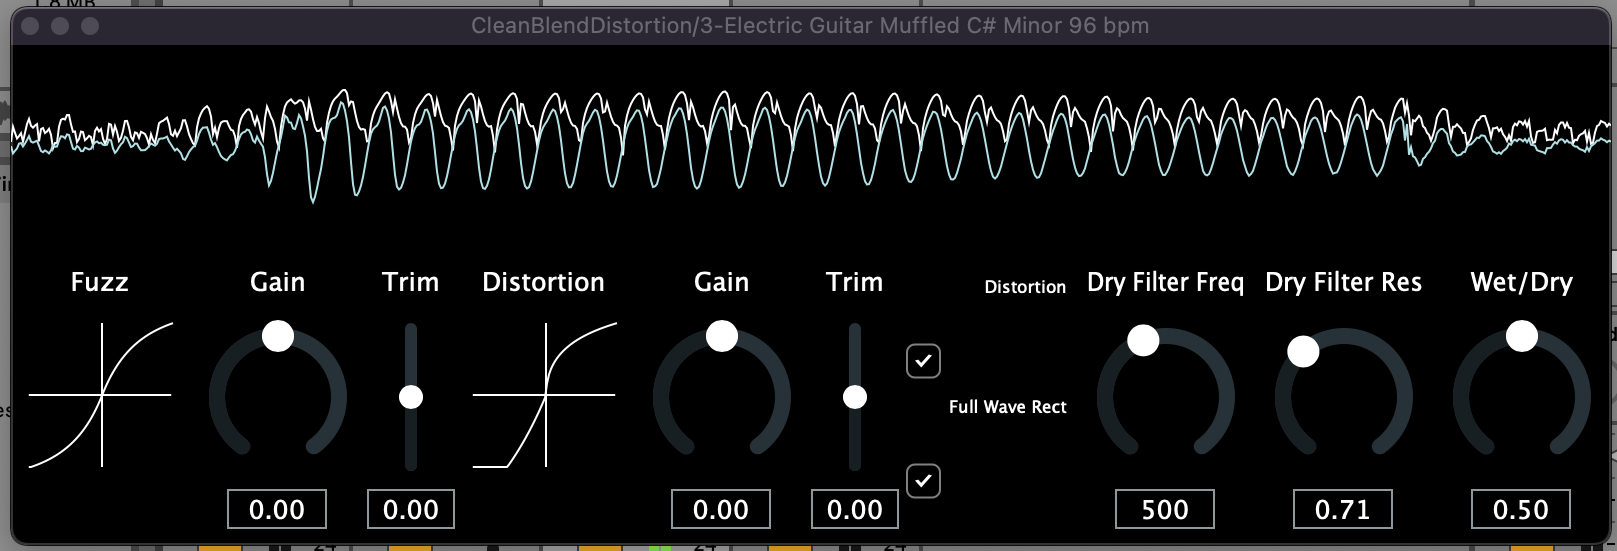
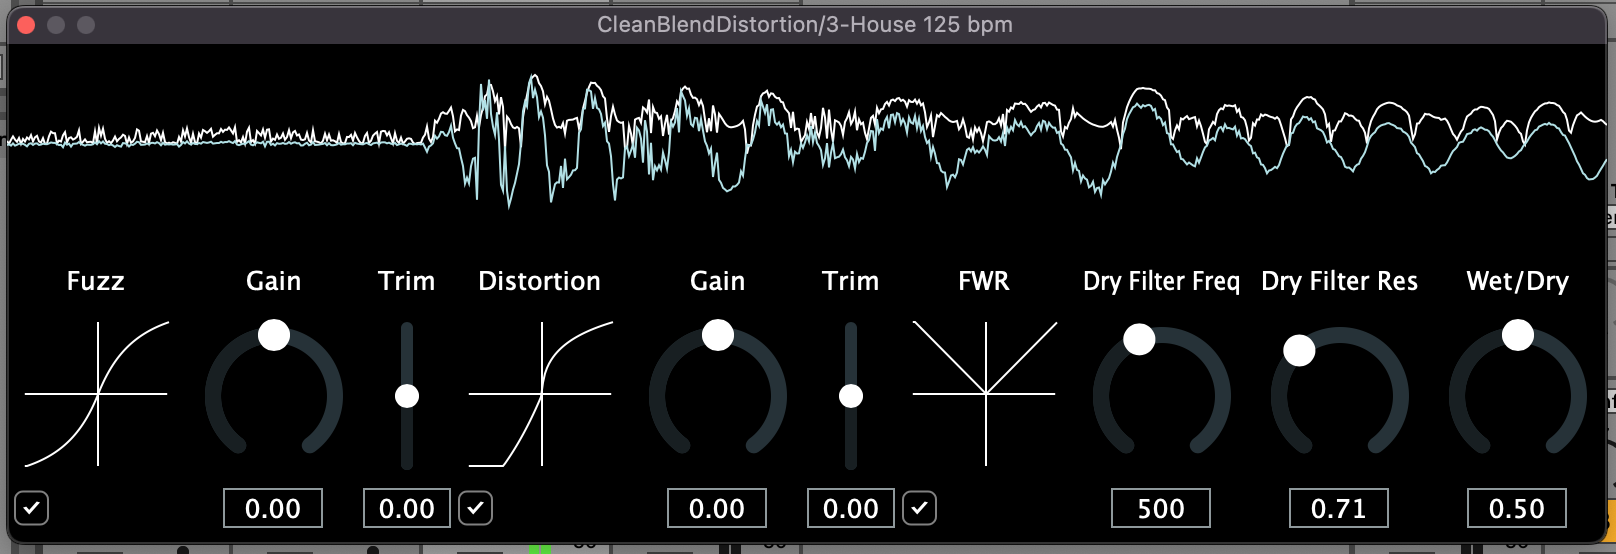
More things turn grey and updated image

diff --git a/CleanBlendDistortion/Source/ButtonsAndDials.cpp b/CleanBlendDistortion/Source/ButtonsAndDials.cpp
@@ -75,19 +75,21 @@ void ButtonsAndDials::paint (juce::Graphics& g)
     g.setColour(juce::Colours::white);
     
     auto FuzzColour = mFuzzEffectToggle.getToggleState() ? juce::Colours::white : juce::Colours::grey;
-    mFuzzVoltageTransferObj.setColour(juce::Label::textColourId, FuzzColour);
+    mFuzzVoltageTransferObjLabel.setColour(juce::Label::textColourId, FuzzColour);
     mFuzzGainSlider.setColour(juce::Slider::ColourIds::thumbColourId, FuzzColour);
+    mFuzzGainLabel.setColour(juce::Label::textColourId, FuzzColour);
     mFuzzVolumeSlider.setColour(juce::Slider::ColourIds::thumbColourId, FuzzColour);
-    
-    
+    mFuzzVolumeLabel.setColour(juce::Label::textColourId, FuzzColour);
     
     auto DistortionColour = mDistortionEffectToggle.getToggleState() ? juce::Colours::white : juce::Colours::grey;
-    mDistortionVoltageTransferObj.setColour(juce::Label::textColourId, DistortionColour);
+    mDistortionVoltageTransferObjLabel.setColour(juce::Label::textColourId, DistortionColour);
     mDistortionGainSlider.setColour(juce::Slider::ColourIds::thumbColourId, DistortionColour);
+    mDistortionGainLabel.setColour(juce::Label::textColourId, DistortionColour);
     mDistortionVolumeSlider.setColour(juce::Slider::ColourIds::thumbColourId, DistortionColour);
+    mDistortionVolumeLabel.setColour(juce::Label::textColourId, DistortionColour);
     
     auto FullWaveRectifierColour = mFullWaveRectifierToggle.getToggleState() ? juce::Colours::white : juce::Colours::grey;
-    
+    mFWRVoltageTransferObjLabel.setColour(juce::Label::textColourId, FullWaveRectifierColour);
 }
 
 void ButtonsAndDials::resized()
